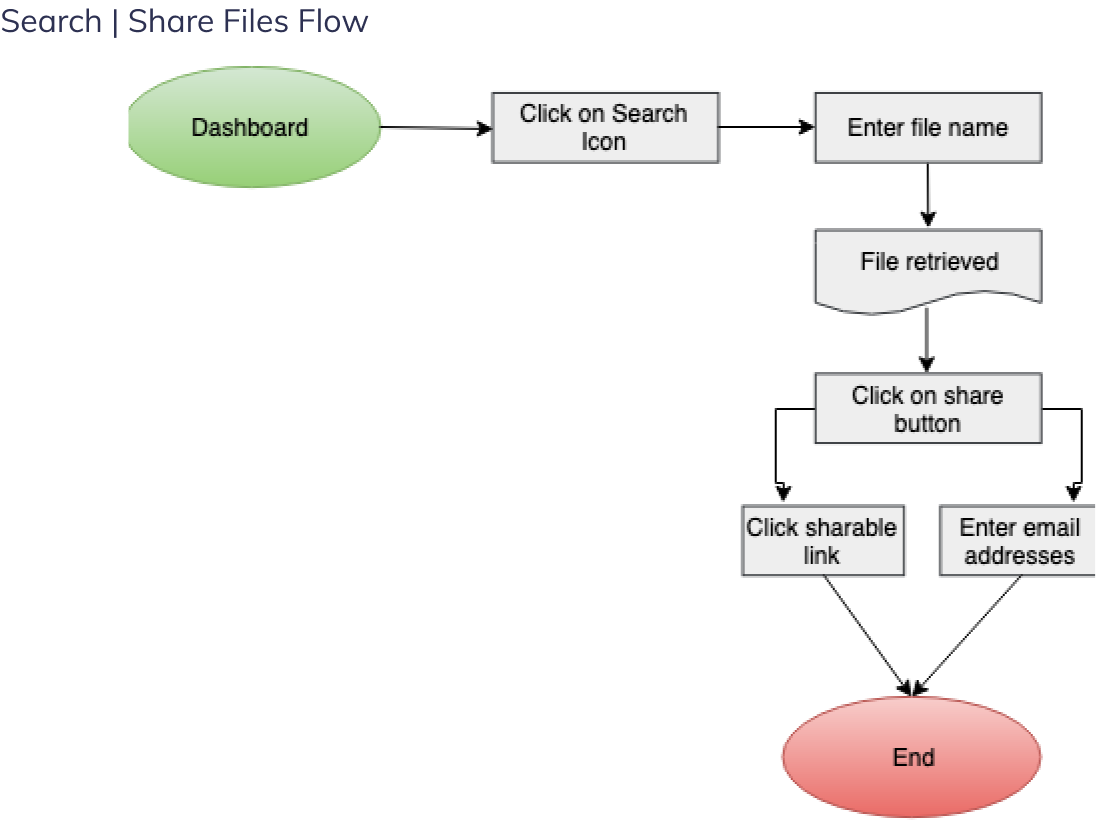
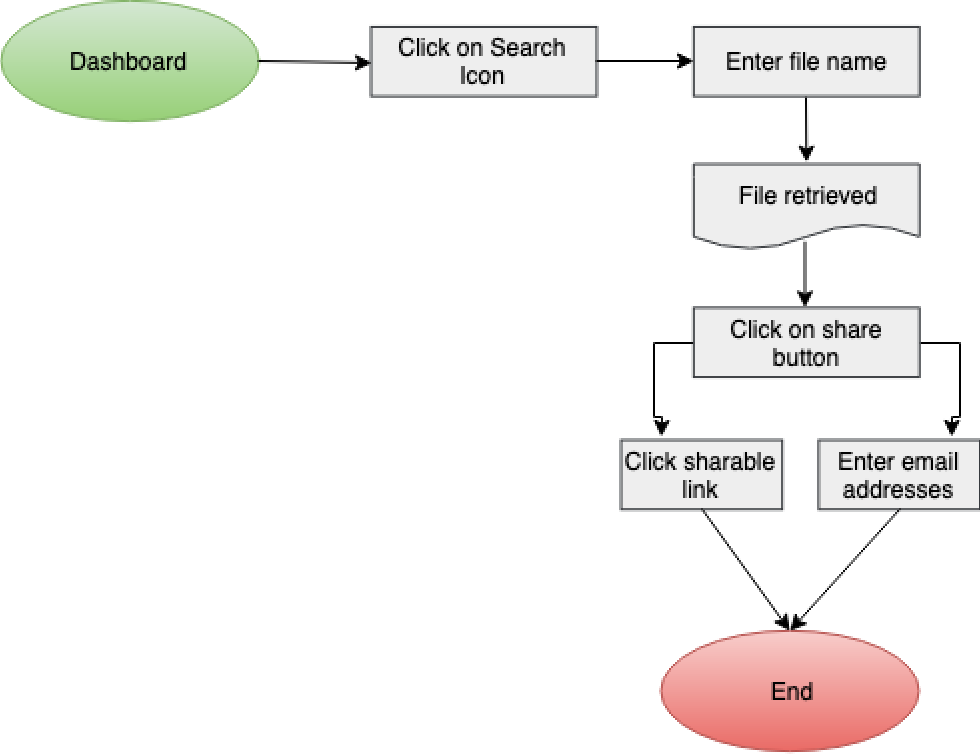
Fix on flows for vaultage

Changed region(s): [[0.0, 0.0, 1.0, 1.0], [0.7653, 0.8846, 0.8571, 0.9456], [0.8878, 0.8541, 0.9184, 0.8846]]

diff --git a/projects/vaultage.html b/projects/vaultage.html
@@ -439,10 +439,12 @@
           </ol>
         </li>
         <li>
+          <p class="project-text flow-text">Search | Share Files Flow</p>
           <img src="../img/projects/vaultage/flows/flow-1.png" alt="Flow Number 1, Search | Share Files"
             srcset="../img/projects/vaultage/flows/flow-1.png 1x, ../img/projects/vaultage/flows/flow-1@2x.png 2x">
         </li>
         <li>
+          <p class="project-text flow-text">Onboarding Process Flow</p>
           <img src="../img/projects/vaultage/flows/flow-2.png" alt="Flow Number 2, Onboarding"
             srcset="../img/projects/vaultage/flows/flow-2.png 1x, ../img/projects/vaultage/flows/flow-2@2x.png 2x">
         </li>

diff --git a/css/style.css b/css/style.css
@@ -801,8 +801,19 @@ a {
   text-align: center;
 }
 
+.flows li:last-child .flow-text {
+  max-width: 470px;
+  margin: auto;
+  text-align: left;
+}
+
 .flows li img {
   max-width: 100%;
+}
+
+.flow-text {
+  margin-bottom: 10px;
+  font-size: 16px;
 }
 
 .flows-list {
@@ -1633,6 +1644,10 @@ a {
 
   .flows-list li {
     margin: 0;
+  }
+
+  .flows li:last-child .flow-text {
+    max-width: 90%;
   }
 
   /* Sitemap */
